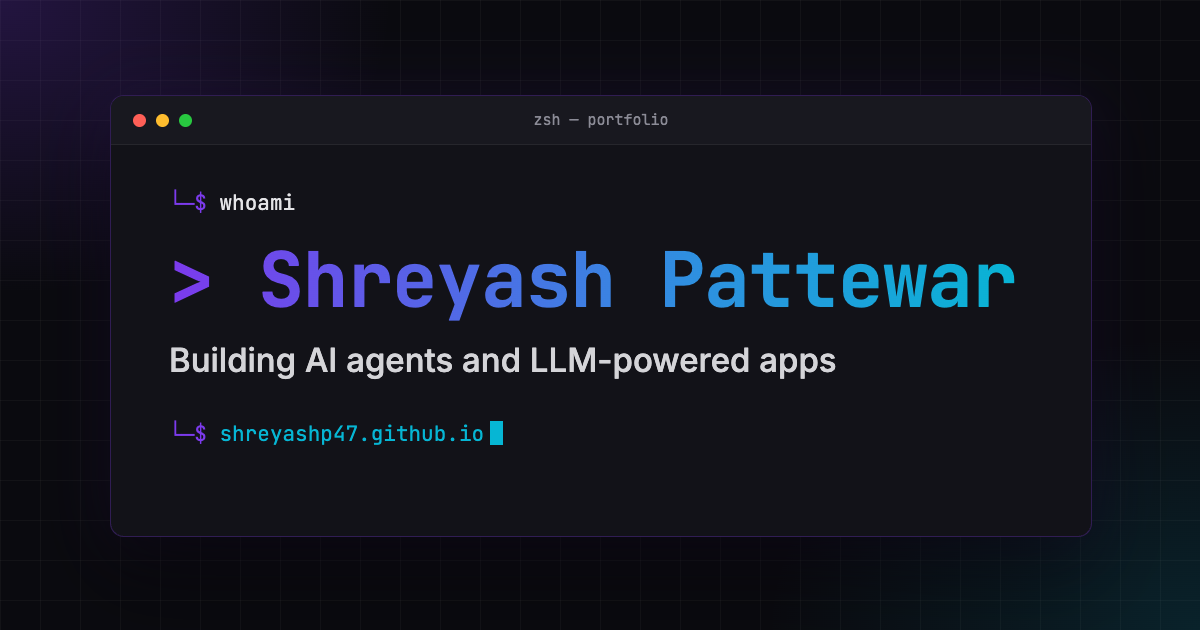
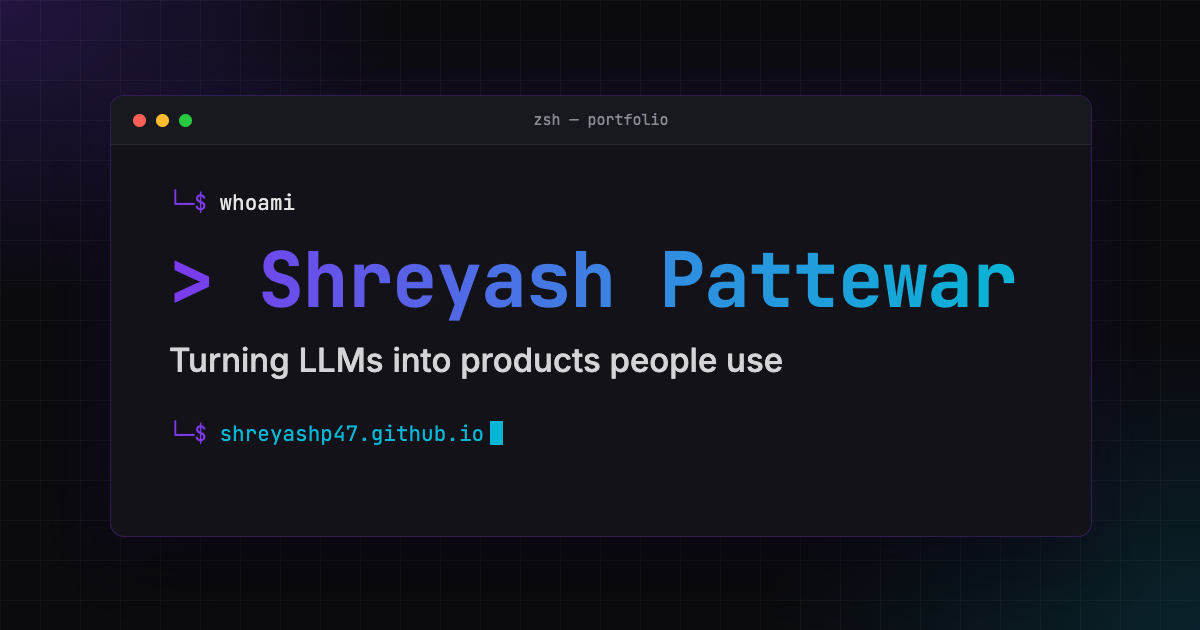
Change tagline to "Turning LLMs into products people use"
Updates the hero, link-preview and structured-data text, the web manifest,
llms.txt and the share image (cache-busted to ?v=3).

Changed region(s): [[0.1233, 0.5429, 0.7092, 0.6032]]

diff --git a/v4/index.html b/v4/index.html
@@ -16,19 +16,19 @@
   <meta property="og:site_name" content="Shreyash Pattewar" />
   <meta property="og:url" content="https://shreyashp47.github.io/" />
   <meta property="og:title" content="Shreyash Pattewar | AI Engineer — LLM Agents &amp; Apps" />
-  <meta property="og:description" content="Building AI agents and LLM-powered apps" />
-  <meta property="og:image" content="https://shreyashp47.github.io/static/assets/og-image.png?v=2" />
+  <meta property="og:description" content="Turning LLMs into products people use" />
+  <meta property="og:image" content="https://shreyashp47.github.io/static/assets/og-image.png?v=3" />
   <meta property="og:image:type" content="image/png" />
   <meta property="og:image:width" content="1200" />
   <meta property="og:image:height" content="630" />
-  <meta property="og:image:alt" content="Shreyash Pattewar — Building AI agents and LLM-powered apps" />
+  <meta property="og:image:alt" content="Shreyash Pattewar — Turning LLMs into products people use" />
   <meta name="twitter:card" content="summary_large_image" />
   <meta name="twitter:site" content="@shreyashp4" />
   <meta name="twitter:creator" content="@shreyashp4" />
   <meta name="twitter:title" content="Shreyash Pattewar | AI Engineer — LLM Agents &amp; Apps" />
-  <meta name="twitter:description" content="Building AI agents and LLM-powered apps" />
-  <meta name="twitter:image" content="https://shreyashp47.github.io/static/assets/og-image.png?v=2" />
-  <meta name="twitter:image:alt" content="Shreyash Pattewar — Building AI agents and LLM-powered apps" />
+  <meta name="twitter:description" content="Turning LLMs into products people use" />
+  <meta name="twitter:image" content="https://shreyashp47.github.io/static/assets/og-image.png?v=3" />
+  <meta name="twitter:image:alt" content="Shreyash Pattewar — Turning LLMs into products people use" />
   <link rel="icon" type="image/svg+xml" href="favicon.svg" />
   <link rel="icon" type="image/png" sizes="48x48" href="favicon-48.png" />
   <link rel="apple-touch-icon" href="apple-touch-icon.png" />
@@ -61,7 +61,7 @@
         "@type": "Organization",
         "name": "Cognizant"
       },
-      "description": "Building AI agents and LLM-powered apps",
+      "description": "Turning LLMs into products people use",
       "email": "mailto:shreyashp47@gmail.com",
       "knowsAbout": [
         "Python",
@@ -104,7 +104,7 @@
       "@id": "https://shreyashp47.github.io/#website",
       "name": "Shreyash Pattewar",
       "url": "https://shreyashp47.github.io/",
-      "description": "Building AI agents and LLM-powered apps",
+      "description": "Turning LLMs into products people use",
       "inLanguage": "en",
       "author": {
         "@id": "https://shreyashp47.github.io/#person"
@@ -280,7 +280,7 @@
           <p class="terminal-line"><span class="prompt">└─$</span> <span class="cmd">whoami</span></p>
           <h1 class="hero-name" id="heroName">&gt; Shreyash Pattewar</h1>
           <p class="terminal-line"><span class="prompt">└─$</span> <span class="cmd">echo</span> <span class="str">$TAGLINE</span></p>
-          <p class="hero-tagline" id="heroTagline">&gt; &quot;Building AI agents and LLM-powered apps&quot;</p>
+          <p class="hero-tagline" id="heroTagline">&gt; &quot;Turning LLMs into products people use&quot;</p>
           <p class="terminal-line"><span class="prompt">└─$</span> <span class="cmd">./typewriter</span></p>
           <h2 class="hero-role" id="heroRole">
             <span class="typewriter" id="typewriter"></span><span class="cursor" aria-hidden="true">█</span>
@@ -477,7 +477,7 @@
   </button>
   <div class="toast" id="toast" role="status" aria-live="polite" aria-atomic="true"></div>
 
-  <script src="static/js/config.js?v=9"></script>
+  <script src="static/js/config.js?v=10"></script>
   <script src="static/js/effects.js?v=6"></script>
   <script src="static/js/render.js?v=9"></script>
   <script src="static/js/navigation.js?v=7"></script>

diff --git a/v4/static/js/config.js b/v4/static/js/config.js
@@ -1,6 +1,6 @@
 const CONFIG = {
   name: "Shreyash Pattewar",
-  tagline: "Building AI agents and LLM-powered apps",
+  tagline: "Turning LLMs into products people use",
   // Used for SEO metadata (JSON-LD, llms.txt) by scripts/prerender.mjs; not shown on the page.
   jobTitle: "AI Engineer",
   company: "Cognizant",
